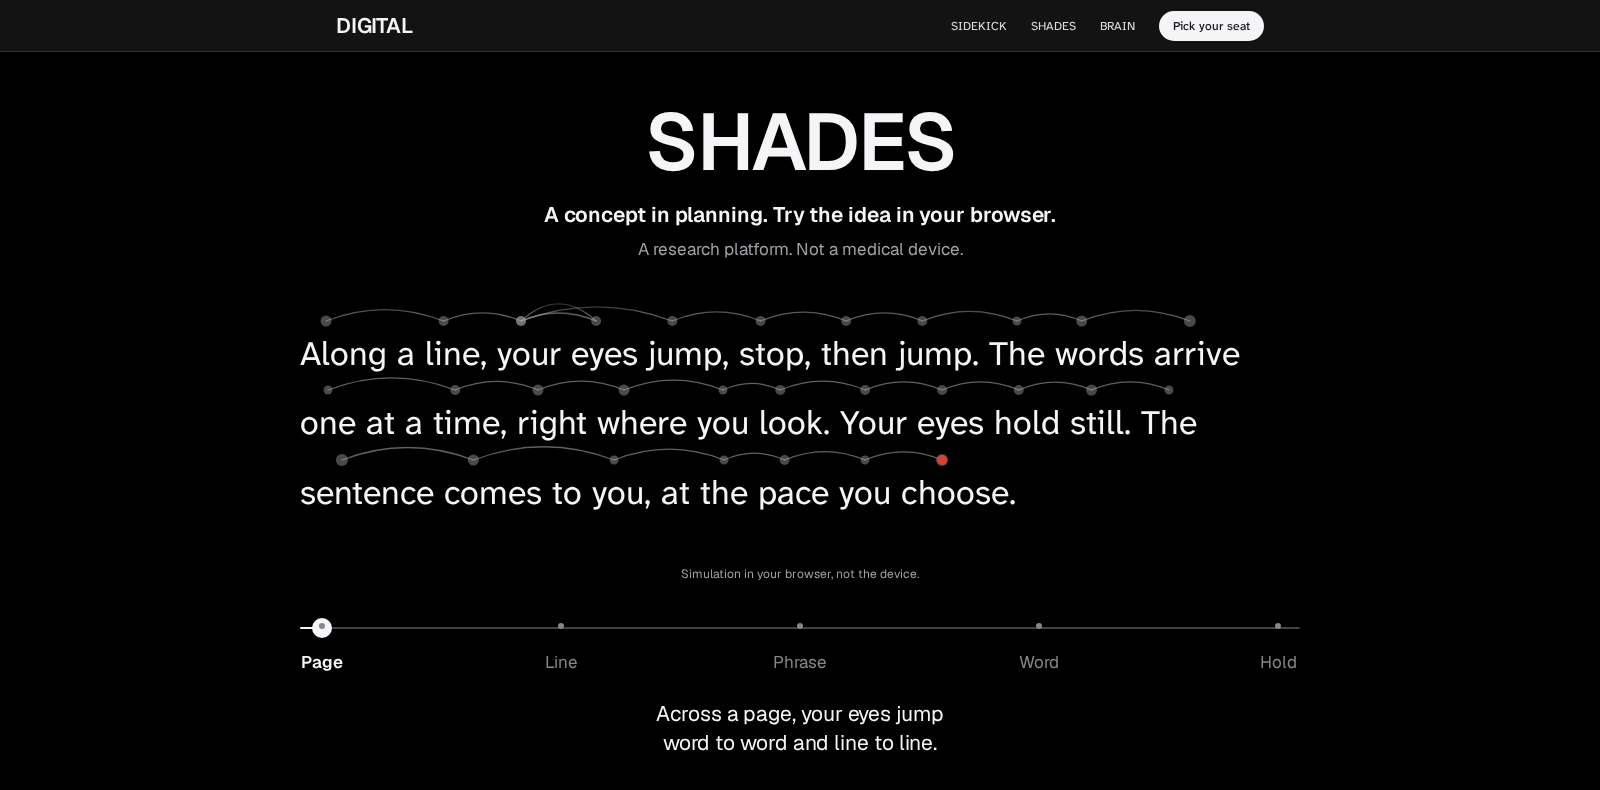
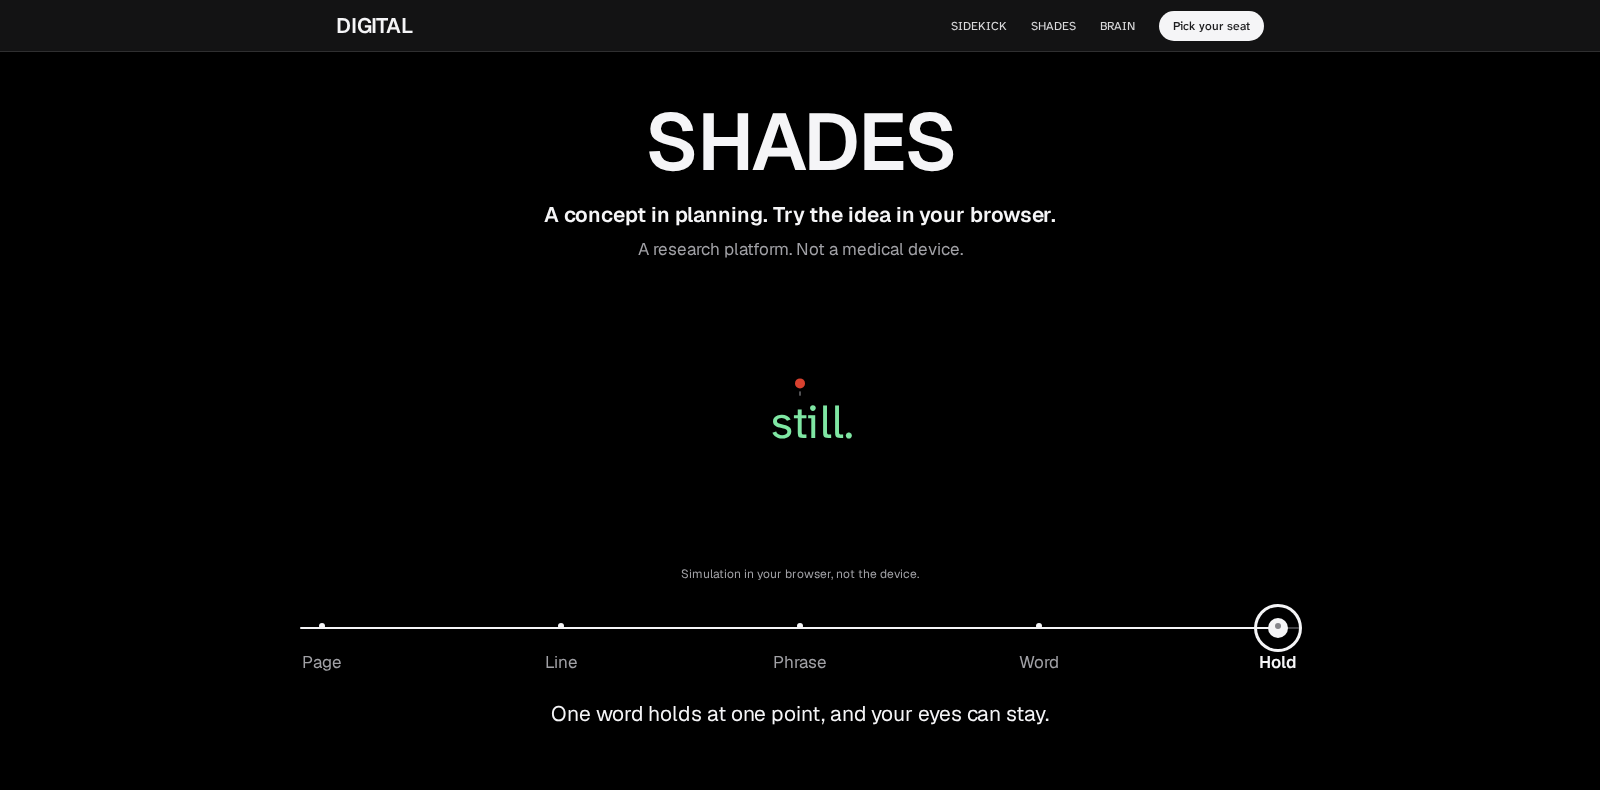
fix(shades): Fable final-check fixes on the merged reveal; log round 2 (#0072)
Slider on the 928px column, last anatomy stage lights only timing and control,
faint page at 18% with a cut-out behind the held word, view beat fits one
desktop screen, centred phone pose. TODO and handoff updated.

diff --git a/app/(apple)/_shades-art/Glasses.tsx b/app/(apple)/_shades-art/Glasses.tsx
@@ -33,8 +33,8 @@ export interface GlassesProps {
   readonly display?: GlassesDisplay | null;
   /** Red fixation point above the word (site red #d8412f). */
   readonly fixation?: boolean;
-  /** Line and exploded only: this group at full strength, the rest dimmed. */
-  readonly highlight?: SystemGroupId | null;
+  /** Line and exploded only: this group (or every group in the list) at full strength, the rest dimmed. */
+  readonly highlight?: SystemGroupId | readonly SystemGroupId[] | null;
   readonly ground?: 'dark' | 'light';
   /** 'object' crops tight to the glasses; 'room' leaves space for the exploded parts and labels.
    *  Default: 'object' for solid, 'room' for line and exploded, so line ↔ exploded animates in place. */
@@ -198,7 +198,10 @@ export function Glasses({
   const { vb } = L;
   const dark = ground === 'dark';
   const exploded = mode === 'exploded';
-  const dim = (grp: SystemGroupId): number => (highlight && highlight !== grp ? 0.3 : 1);
+  const lit: readonly SystemGroupId[] | null = highlight == null ? null : typeof highlight === 'string' ? [highlight] : highlight;
+  const dim = (grp: SystemGroupId): number => (lit && !lit.includes(grp) ? 0.3 : 1);
+  /** The controller box and cable belong to no group: dimmed whenever any highlight is set. */
+  const boxDim = lit ? 0.3 : 1;
   const fb = g.frontBox;
   const word = display?.word ?? '';
   const wordColor = display?.color ?? HUD_GREEN;
@@ -385,7 +388,7 @@ export function Glasses({
   ) : null;
   const line = (
     <g className={s.layer} style={{ opacity: mode === 'line' ? 1 : 0 }}>
-      {T ? <g className={s.group} style={{ opacity: highlight ? 0.3 : 1 }}>{cableTube('var(--gg)', 'back')}</g> : null}
+      {T ? <g className={s.group} style={{ opacity: boxDim }}>{cableTube('var(--gg)', 'back')}</g> : null}
       <g className={s.group} style={{ opacity: dim('frame') }}>
         <g mask={frontMask}>{g.temples.map((faces, i) => templeUnion(faces, i))}</g>
         {seamLines}
@@ -393,7 +396,7 @@ export function Glasses({
         <Union>{() => copies(1, -1).map((t) => faceCopy(t))}</Union>
         <Union>{() => <use href={faceRef} />}</Union>
       </g>
-      {T ? <g className={s.group} style={{ opacity: highlight ? 0.3 : 1 }}>{tetherLine}</g> : null}
+      {T ? <g className={s.group} style={{ opacity: boxDim }}>{tetherLine}</g> : null}
       <g className={s.group} style={{ opacity: dim('display') * (g.display.visible || 0) }}>
         <rect
           transform={dm}
@@ -435,7 +438,7 @@ export function Glasses({
   };
   const tetherExploded = T ? (
     <>
-      <g className={s.group} style={{ opacity: highlight ? 0.3 : 1, transform: exploded ? tr(T.lift.body) : 'none' }}>
+      <g className={s.group} style={{ opacity: boxDim, transform: exploded ? tr(T.lift.body) : 'none' }}>
         {slabUnion(T.body, tone, 'var(--g-frame-1)')}
         {T.ports.map((d, i) => (
           <path key={i} d={d} fill="var(--g-frame-3)" stroke="currentColor" strokeWidth={OUTLINE} {...nsProps} />
@@ -443,18 +446,18 @@ export function Glasses({
       </g>
       {moduleSlab('control')}
       {moduleSlab('timing')}
-      <g className={s.group} style={{ opacity: highlight ? 0.3 : 1 }}>
+      <g className={s.group} style={{ opacity: boxDim }}>
         {slabUnion(T.lid, tone, 'var(--g-frame-1)')}
       </g>
       {/* the cable's front run is nearer than every part of the box: last */}
-      <g className={s.group} style={{ opacity: highlight ? 0.3 : 1 }}>
+      <g className={s.group} style={{ opacity: boxDim }}>
         {cableTube('var(--g-frame-2)', 'exploded')}
       </g>
     </>
   ) : null;
   const explodedLayer = (
     <g className={s.layer} style={{ opacity: exploded ? 1 : 0, color: 'var(--g-outline)' }}>
-      {T ? <g className={s.group} style={{ opacity: highlight ? 0.3 : 1 }}>{cableTube('var(--g-frame-2)', 'back')}</g> : null}
+      {T ? <g className={s.group} style={{ opacity: boxDim }}>{cableTube('var(--g-frame-2)', 'back')}</g> : null}
       <g className={s.group} style={{ opacity: dim('frame') }}>
         {g.temples.map((faces, ti) => (
           <g key={ti} mask={frontMask}>

diff --git a/app/(apple)/projects/shades-control/HoldStill.tsx b/app/(apple)/projects/shades-control/HoldStill.tsx
@@ -83,9 +83,13 @@ function build(w: number, h: number, inner: number, fs: number, lh: number, boxe
   const line: Pose[] = boxes.map((b, i) =>
     inLine(i) ? { dx: lineX[i] - b.x, dy: C.y - cy(b), o: 1, sc: 1 } : { dx: 0, dy: push(b, 0.9), o: b.y !== fb.y && inside(cy(b) + push(b, 0.9)) ? GHOST : 0, sc: 1 },
   );
+  // the unfaded band between the side fades (the box bleeds one gutter each side): a word that would sit even
+  // partly in a fade is hidden whole, never cut mid-glyph
+  const gutter = (w - inner) / 2;
+  const inBand = (x0: number, ww: number): boolean => x0 >= gutter && x0 + ww <= w - gutter;
   const phrase: Pose[] = boxes.map((b, i) =>
     inLine(i)
-      ? { dx: lineX[i] + phraseShift - b.x, dy: C.y - cy(b), o: i >= P0 ? 1 : 0.16, sc: 1 }
+      ? { dx: lineX[i] + phraseShift - b.x, dy: C.y - cy(b), o: i >= P0 ? 1 : inBand(lineX[i] + phraseShift, b.w) ? 0.16 : 0, sc: 1 }
       : { dx: 0, dy: push(b, 1.3), o: 0, sc: 1 },
   );
   // Collapse: every neighbour is pulled toward the one point (k = 0.42 at Word, 0 at Hold) as it fades.
@@ -98,8 +102,20 @@ function build(w: number, h: number, inner: number, fs: number, lh: number, boxe
   const focus: Pose = { dx: focusDx, dy: focusDy, o: 1, sc };
   // pageAtHold > 0: the see-through view. The page settles back into its own lines at that ink, behind the held
   // word, instead of collapsing into the point. Flow positions sit inside the figure box by construction.
-  const settle: Pose = { dx: 0, dy: 0, o: pageAtHold, sc: 1 };
-  const word: Pose[] = boxes.map((b, i) => (i === F ? focus : pageAtHold > 0 ? settle : toward(b, i, 0, 0, 0.4)));
+  // Any page word whose settled box meets the held word's box (plus its dot and tick above) is cut out (ink 0),
+  // so the held word never lands on faint letters.
+  const m = fs * 0.25;
+  const liftAt = Math.max(9, (lh - fs * 1.15) / 2);
+  const held = {
+    x0: C.x - pivot * sc - m,
+    x1: C.x + (fb.w - pivot) * sc + m,
+    y0: C.y - fs * 0.55 * sc - liftAt - 10,
+    y1: C.y + fs * 0.6 * sc + m,
+  };
+  const hits = (b: Box): boolean =>
+    b.x < held.x1 && b.x + b.w > held.x0 && cy(b) - fs * 0.6 < held.y1 && cy(b) + fs * 0.6 > held.y0;
+  const settle = (b: Box): Pose => ({ dx: 0, dy: 0, o: hits(b) ? 0 : pageAtHold, sc: 1 });
+  const word: Pose[] = boxes.map((b, i) => (i === F ? focus : pageAtHold > 0 ? settle(b) : toward(b, i, 0, 0, 0.4)));
   const poses = [page, line, phrase, word, word]; // Hold = Word's pose; only the dot and the colour change
 
   // Fixation sequences (illustrative): skip short words, one regression, always end on the held word.

diff --git a/app/(apple)/projects/shades-reveal/reveal.module.css b/app/(apple)/projects/shades-reveal/reveal.module.css
@@ -380,12 +380,14 @@
 .view {
   display: grid;
   gap: var(--r2-space-5);
-  padding: var(--r2-space-10) var(--r2-gutter) var(--r2-space-9);
+  padding: var(--r2-space-8) var(--r2-gutter) var(--r2-space-9);
   scroll-margin-top: var(--r2-nav-h);
 }
 
 .holdWrap {
   width: 100%;
+  max-width: 928px; /* the page column: 1024 measure less the 48px gutters */
+  margin-inline: auto;
 }
 
 /* ---------- 5 · close ---------- */
@@ -554,6 +556,13 @@
 
 .anatArt[data-pose='solid'] [role='img'] {
   transform: translateX(var(--pre-x, 10%));
+}
+
+/* One column (≤ 899px): the separated pose also sits left in its room; centre it in the art column. */
+@media (max-width: 899px) {
+  .anatArt[data-pose='exploded'] [role='img'] {
+    transform: translateX(var(--exp-x, 10%));
+  }
 }
 
 @media (prefers-reduced-motion: reduce) {

diff --git a/app/(apple)/projects/shades-reveal/AnatomyPin.tsx b/app/(apple)/projects/shades-reveal/AnatomyPin.tsx
@@ -78,7 +78,6 @@ export function AnatomyPin() {
   });
 
   const beat = anatomy.beats[shown];
-  const single = beat.groups.length === 1 ? beat.groups[0] : null;
 
   if (!enhanced) {
     return (
@@ -112,7 +111,7 @@ export function AnatomyPin() {
               ground="dark"
               fit="room"
               tether
-              highlight={apart ? single : null}
+              highlight={apart ? beat.groups : null}
               title={ART_TITLE}
             />
           </div>

diff --git a/app/(apple)/projects/shades-reveal/page.tsx b/app/(apple)/projects/shades-reveal/page.tsx
@@ -85,7 +85,7 @@ export default function ShadesRevealPage() {
             <p className={s.lead}>{view.caption}</p>
           </header>
           <div className={`${hold.live} ${s.holdWrap}`}>
-            <HoldStill pageAtHold={0.14} />
+            <HoldStill pageAtHold={0.18} />
           </div>
           <div className={`${hold.noscript} ${s.holdWrap}`}>
             <HoldStillStills />

diff --git a/TODO.md b/TODO.md
@@ -103,6 +103,7 @@ committed — see the standing rule in `CLAUDE.md` and `AGENT.md`.
 | lab.16 | #0069    | b29f1c1 | fix(site): dark bar at scroll 0 on SitePage routes; honest SHADES controls without JS; pin height from --steps (#0069) | Also sentence-cases the Back-a-build option titles (reaches SIDEKICK; Head Designer approved 2026-10-08). This commit also carries the 31 `git mv` moves of lab.17 and does not compile alone. Report-only, locked: SIDEKICK tablet `--art-h` and 28px tracker buttons (`_sidekick/mainboard.module.css:82`, `:67`, `:90`). |
 | lab.17 | #0070    | b2aa4c8 | chore: archive dead code and unused content; drop 21 unused dependencies (#0070) | Head Designer approved 2026-10-08. 28 dead files and 3 logo PNGs to `archive/`; unread exports removed (kept in `archive/removed-content-2026-10-08.ts`); `Bits.tsx` one-line type change (approved); 21 packages removed. Scratch build: exit 0, `out/` 4.7 MB. BRAIN + SIDEKICK screenshots byte-identical, 16 of 16. Draft PR #4 (`design-lab/exploration` → `main`) is at this commit. Not done: Tailwind / `globals.css` token trim, dead `design-lab/scripts/*.mjs`, unread fields in `_content/shades.ts` (wait for the SHADES revamp choice). |
 | lab.18 | #0071    | — | feat(shades): two concept mockups for the SHADES revamp, A object leads and B book leads (#0071) | Branch `design-lab/shades-revamp` only, not in PR #4. Review routes `/projects/shades-a/` and `/projects/shades-b/` (`noindex`, not in nav or sitemap); V0.1 at `/projects/shades/` untouched. Code-drawn glasses, seven played stages, archived book photograph blurred so its invented text is illegible, held word `#7FE6A3` with a white variant to compare. Both pass the §4 recipe at four sizes, reduced motion and no JS. Scratch build with both: exit 0, `out/` 5.4 MB. Awaiting the Head Designer's pick. |
+| lab.19 | #0072    | — | feat(shades): round 2: research, Fable-audited plan, shared tethered glasses artwork, three approaches, merged reveal + Hold still (#0072) | Branch `design-lab/shades-revamp` only. Haiku 5.5 research (`design-lab/shades-concept/research/round2/`); Fable plan audit and two render audits; Head Designer picks: reveal + Hold still, book photo retired, tethered controller box with heavy temples (DECISIONS #7), gradient + group-hue waivers for SHADES. Review routes (noindex): `/projects/shades-reveal/` (chosen), `/projects/shades-research/`, `/projects/shades-control/`, `/projects/shades-art-preview/`. Comparison page `design-lab/shades-concept/round2/compare.html`. Scratch build exit 0, `out/` 12 MB of which 4.7 MB is the art preview (review only). After Effects MCP not installed (AE absent); motion measured from frame captures instead. |
 
 ---
 

diff --git a/design-lab/shades-concept/round2/reveal/NOTES.md b/design-lab/shades-concept/round2/reveal/NOTES.md
@@ -92,3 +92,15 @@ Critique → fix loop (merged page): the "what" band left an empty 256px under t
 **Prop change needed in HoldStill (not made; not my folder):** keep the typeset page faint behind the word at Word and Hold, e.g. an optional `pageAtHold?: number` (opacity of the off-line words at steps 3–4, default today's 0; this page would pass about 0.12–0.16), or make that the default for both routes.
 
 Verification after the merge: 7 of 7 runs status 200, 0 console errors, no overflow, one `main` / `h1`, pin at 52px; the range input and tracker are ≥ 44px; no-JS shows the five stills and the note (range hidden); reduced motion keeps the slider (poses snap). `tsc` exit 0, `next lint` clean. Screenshots: every beat and stage at 1600×790 and 390×844, including the five slider steps (`*-04-view-1-page.png` … `*-04-view-5-hold.png`), plus `nojs-390-view.png`, `reduced-390-view.png`, `nojs-390-full.png`, `reduced-390-full.png`.
+
+## Fable final check fixes (2026-10-09)
+
+| # | Fix | Before | After |
+|---|---|---|---|
+| 1 | Slider on the page column (`.holdWrap` max-width 928, centred) | x300 w1000 | x336 w928; page still sets in 3 clean lines at 1600 (`1600-04-view-1-page.png`) |
+| 2 | Last pin stage lights only its groups (`highlight={apart ? beat.groups : null}`, Glasses now takes an array) | stage 4 lit every group | stage 4 lights Word timing + Control; frame, display, optics dimmed (`*-03-anatomy-4.png`) |
+| 3 | `pageAtHold={0.18}` | 0.14 | 0.18: the page stays faint behind the held word at Hold (`*-04-view-5-hold.png`) |
+| 4 | `.view` top padding `--r2-space-10` → `--r2-space-8` | 128px | 64px; `h2` top to step caption bottom = 658px, fits the 738px under the bar at 1600×790 |
+| 5 | 390 pin: exploded pose centred (`translateX(10%)` at ≤ 899px) | drawing centre 160 vs column 195 | 197 vs 195 |
+
+`ViewStills.tsx` is gone: the page now uses the shared `shades-control/HoldStillStills` (changed by the coordinator). Verification: 7 of 7 runs status 200, 0 console errors, no overflow, one `main` / `h1`, pin at 52px; no-JS shows 5 stills + note; `tsc` exit 0, `next lint` clean. All screenshots re-shot at both sizes.

diff --git a/design-lab/HANDOFF-NEXT.md b/design-lab/HANDOFF-NEXT.md
@@ -16,6 +16,16 @@ You are the orchestrator: plan, route, verify, report. Delegate the work to suba
 
 **Next action:** the Head Designer picks A or B (or parts of each), then answers: green or white held word; dashed or solid frame; blurred book or a new plate (`BOOK-01` prompt); concept-label wording. Then promote the pick to `/projects/shades/`, archive V0.1 and the other mockup, and move the styles mockup A borrows from `projects/shades/apple.module.css`.
 
+## 0b. Status after the third session (2026-10-09)
+
+SHADES round 2 is done and the Head Designer picked a direction: **`/projects/shades-reveal/`** (product reveal with the
+Hold still slider as its view beat). Plan, decisions and audits: `design-lab/shades-concept/round2/PLAN-R2.md`,
+`design-lab/shades-concept/DECISIONS.md` (#7 tethered controller box). Fable's last verdict: ready with small fixes, all
+applied. Next: Head Designer review beside BRAIN and SIDEKICK, then promote it to `/projects/shades/` (move
+`HoldStill`, `HoldStillStills` and `_shades-art/` into shared homes, archive V0.1, shades-a/b, research and control
+routes, drop the art preview from the export). Open: an on-page caption for the anatomy drawing (new string, brand
+review); optional generated renders (`round2/reveal/RENDER-PROMPTS.md`).
+
 ## 1. Where things are
 
 | Thing | Value |

diff --git a/design-lab/shades-concept/round2/control/NOTES.md b/design-lab/shades-concept/round2/control/NOTES.md
@@ -99,3 +99,11 @@ The slider thumb is 44×44 (20px visible knob). `npx tsc --noEmit` and `npx next
   - 15 of 20 are byte-identical.
   - The 5 that differ, differ by at most 0.0006% of pixels: anti-aliasing on the scanpath marks, or sub-threshold encoding noise.
   - Two runs of the unchanged build differ by the same amount.
+
+## Fable final check fixes (2026-10-09)
+
+- **`pageAtHold > 0`, held-word cut-out.** Any settled page word whose box meets the held word's target box (scaled word, its red dot and tick, plus 0.25em margin) goes to ink 0.
+  - Checked at `pageAtHold={0.18}`, 1600 and 390: 0 inked words overlap the held word at Word and Hold.
+  - The held word turns green at Hold.
+  - Captures: `page-at-hold-0.18-{1600,390}.png`.
+- **Phrase step, side band.** A word that would sit even partly in the side fade is hidden whole; 0 words are cut at the edge on every step. This is the one visible change on the default route: at Phrase, the faint, half-faded word at the left edge ("time," at 1600) is gone. That is 0.06% of pixels in `step-2-*`; every other default capture is byte-identical or within run-to-run noise (≤ 0.002%).
